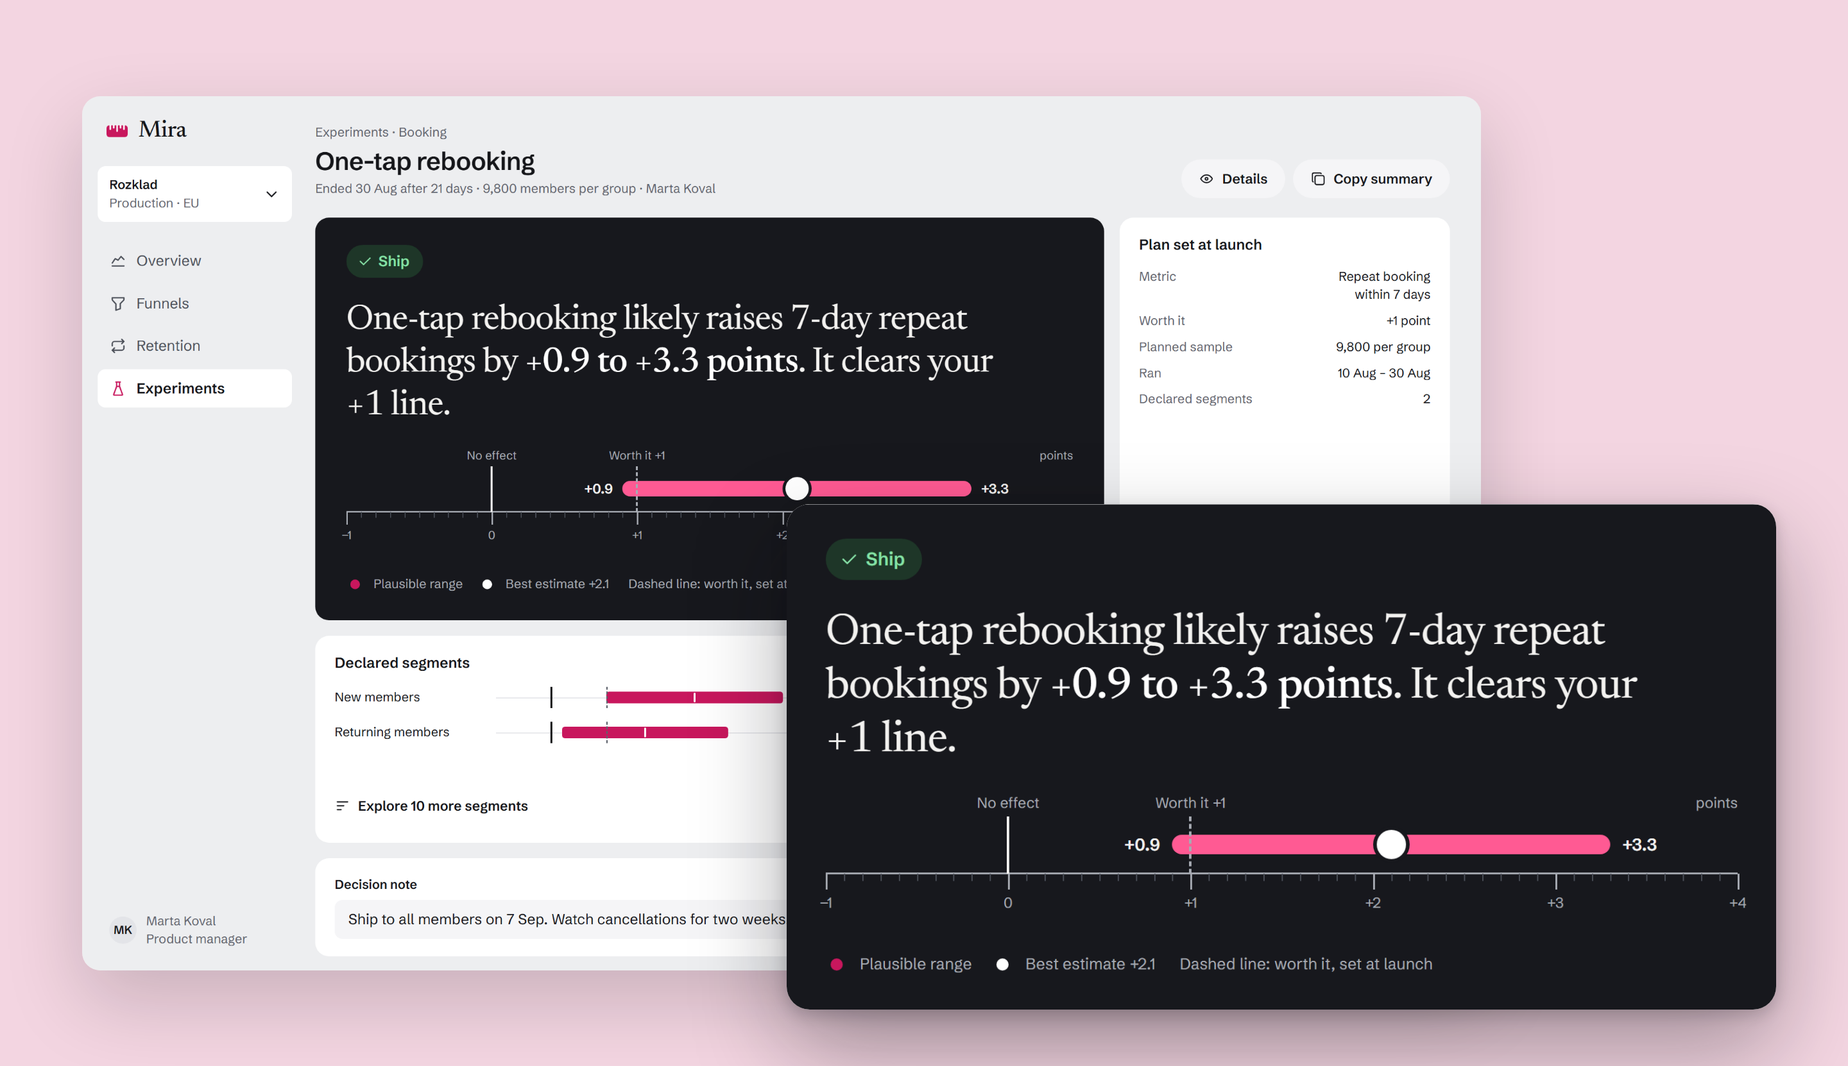
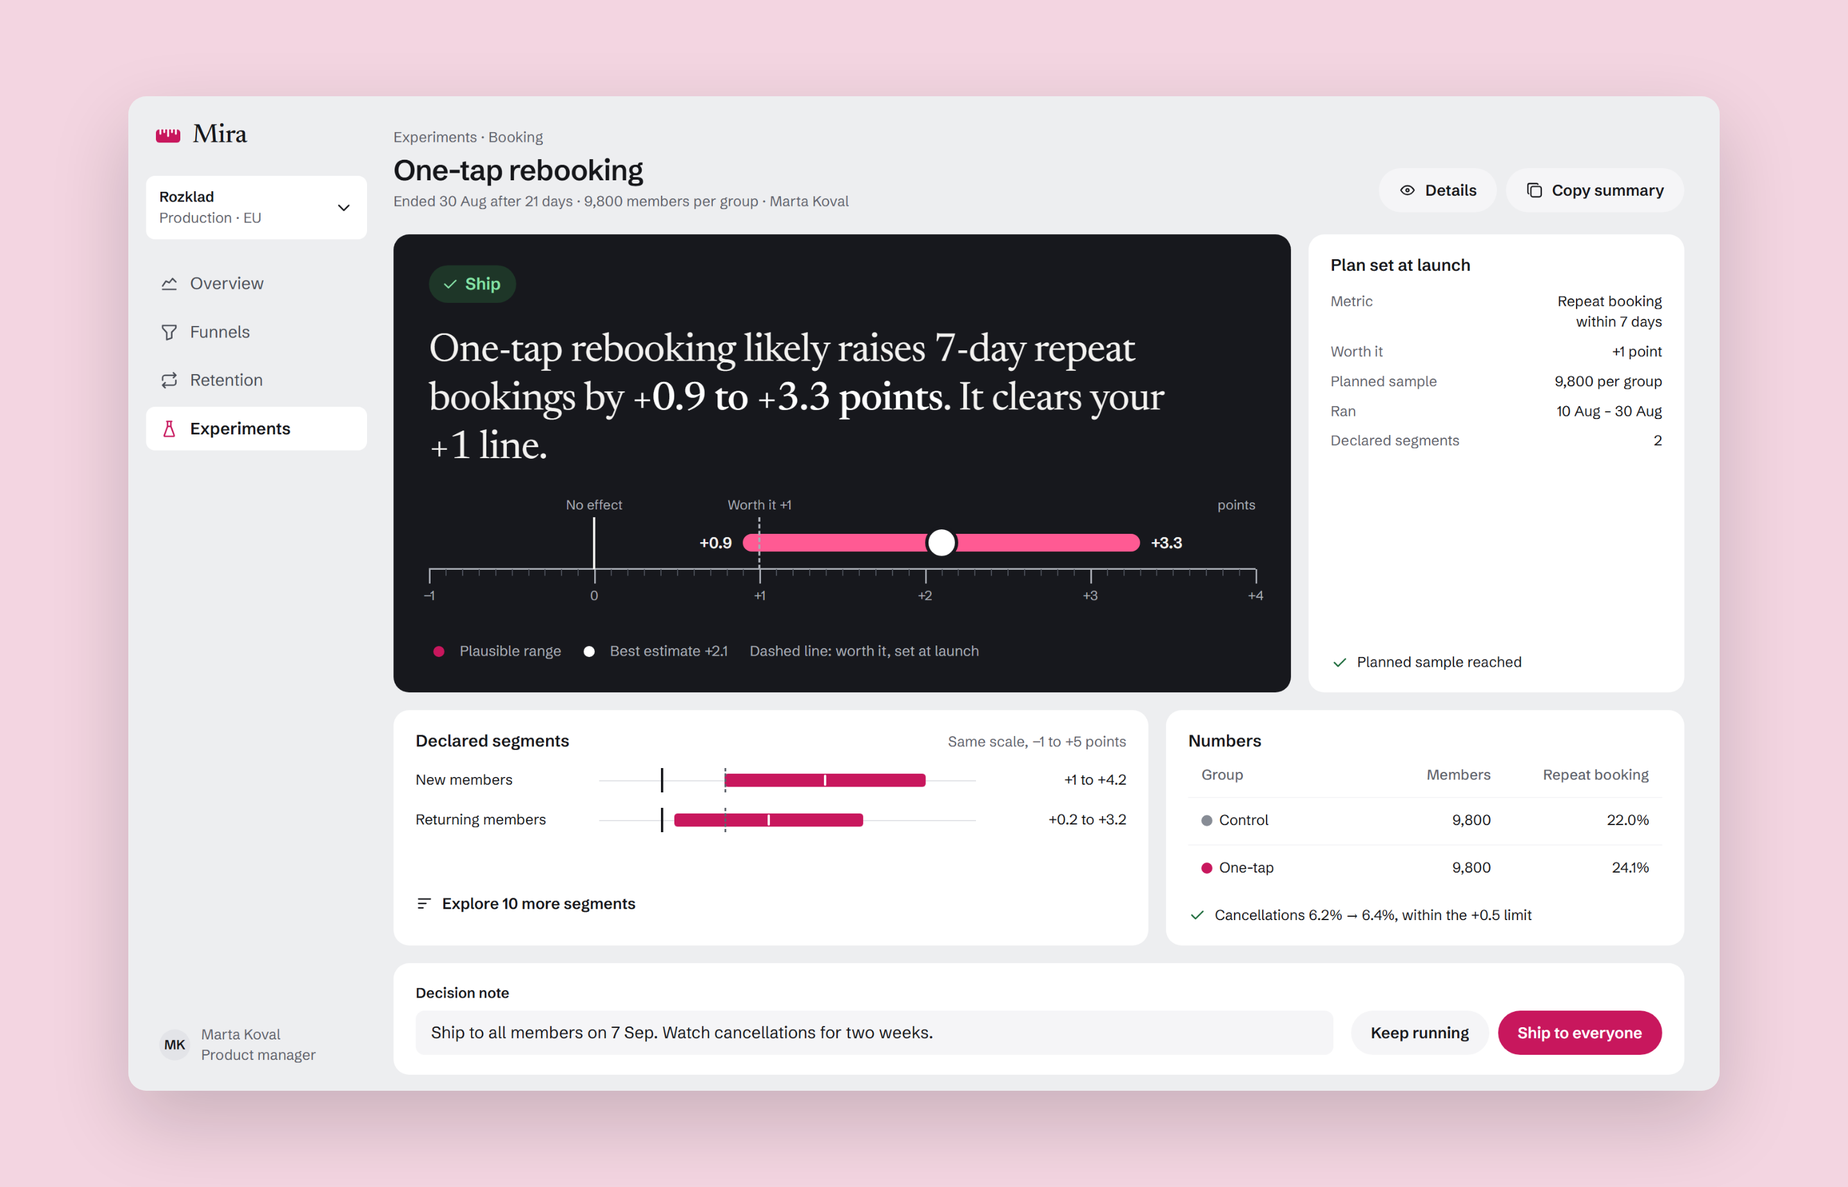
Mira: one claim per case image
Case images now prove one point each instead of repeating a screen with
an enlarged copy of itself. Full screens only where the layout matters
(hero, before, list); otherwise the part the caption is about, alone and
readable. Early peek shown as before and after side by side. Details and
cohorts images dropped: they proved nothing the text needs. 15 images.

diff --git a/mira-experiment-results.html b/mira-experiment-results.html
@@ -42,7 +42,7 @@
   <header class="case-hero wrap">
     <h1>Mira — experiment results that say when to decide</h1>
     <dl class="case-facts"><div><dt>Role</dt><dd>UI/UX &amp; Product Designer</dd></div><div><dt>Platform</dt><dd>Web, desktop</dd></div><div><dt>Domain</dt><dd class="seplist"><span class="seplist__items"><span>SaaS</span><span>Analytics</span></span></dd></div><div><dt>Team</dt><dd>Solo concept</dd></div></dl>
-    <div class="media case-hero__media"><figure class="fig"><img src="img/mira-experiment-results/01-hero.webp" alt="Mira result screen for One-tap rebooking: a Ship verdict, the sentence “likely raises 7-day repeat bookings by +0.9 to +3.3 points” and a ruler with zero, the worth-it line and the range, enlarged" width="2048" height="1182" loading="eager" decoding="async"><figcaption>The verdict, one sentence and the plausible range on a ruler</figcaption></figure></div>
+    <div class="media case-hero__media"><figure class="fig"><img src="img/mira-experiment-results/01-hero.webp" alt="Mira result screen for One-tap rebooking: a Ship verdict, the sentence “likely raises 7-day repeat bookings by +0.9 to +3.3 points”, a ruler with zero, the worth-it line and the range, the plan set at launch and declared segments" width="2048" height="1316" loading="eager" decoding="async"><figcaption>The verdict, one sentence and the plausible range on a ruler</figcaption></figure></div>
     <dl class="case-summary" aria-label="Case at a glance"><div><dt>Problem</dt><dd>Teams using Mira shipped A/B&nbsp;“wins” off a green badge. 41% of shipped winners were stopped before the planned sample, and 9 of 24 rechecked later showed no effect.</dd></div><div><dt>What I did</dt><dd>Ran JTBD interviews, a retro of 86 past decisions and a test of four ways to show the same result. Then I redesigned results, test setup, segments, funnels and retention.</dd></div><div><dt>Result</dt><dd>Correct decisions in the test rose from 59% to 72%, and early stops in the pilot fell from 36% to 19%. Showing p-values openly failed, and analysts didn’t improve.</dd></div></dl>
   </header>
   <div class="prose wrap">
@@ -52,7 +52,7 @@
 <p class="reveal">Every screen shows Mira’s demo workspace, Rozklad, a class-booking app for gyms: 182,000 visits in 30&nbsp;days, 1,690 paid plans. The old results page put the lift in big type next to a green “Significant” badge, with the p-value in small grey text. Results appeared from the first hour of a test.</p>
 <p class="reveal">Page logs showed how it was read. 72% of visits to a result lasted under 40&nbsp;seconds, only 9% scrolled down to the interval, and 58% of views came before the planned sample was in.</p>
 <p class="reveal">This is a solo concept, written the way it would run in a team: a product lead, an analyst, two front-end engineers and me. I ran the research, the design and the test. Six weeks of design, then an eight-week pilot.</p>
-<div class="media reveal"><figure class="fig"><img src="img/mira-experiment-results/02-before.webp" alt="The old results page: +18% in big type with a green Significant badge on day 3 of 14, and the p-value in small grey text" width="2048" height="1182" loading="lazy" decoding="async"><figcaption>Before: lift in big type, a green badge on day 3, the p-value in small print</figcaption></figure></div>
+<div class="media reveal"><figure class="fig"><img src="img/mira-experiment-results/02-before.webp" alt="The old results page: +18% in big type with a green Significant badge on day 3 of 14, the p-value in small grey text, and a segment table with another Significant badge" width="2048" height="1316" loading="lazy" decoding="async"><figcaption>Before: lift in big type, a green badge on day 3, the p-value in small print</figcaption></figure></div>
 <h2 class="reveal">Constraints</h2>
 <ul class="reveal"><li><strong>The statistics engine stays.</strong> Fixed-sample tests, as the teams already plan them. I could change how a result reads, not the maths behind it.</li><li><strong>Analysts still need p-values.</strong> They sign results off, and someone asks them “is this significant?” six times a week.</li><li><strong>The screen can’t invent a threshold.</strong> What counts as worth shipping is the team’s call, so it has to be set before the test starts.</li><li><strong>The page itself can’t be A/B tested.</strong> Whether a decision was right shows up months later, in a holdout.</li></ul>
 <h2 class="reveal">Process</h2>
@@ -76,32 +76,30 @@
 <h2 class="reveal">A sentence first, then the range</h2>
 <p class="reveal">The result opens with a sentence a product manager can repeat at review, with the range in it: “likely raises 7-day repeat bookings by +0.9 to +3.3&nbsp;points.” Under it, the ruler shows zero, the worth-it line the team set at launch and the plausible range. Mira comes from “міра”, Ukrainian for “measure”, so the ruler is the product’s one memorable element: a dark instrument panel, a graduated rule, a raspberry range. Everything around it stays quiet grey.</p>
 <p class="reveal">A flat test gets the same treatment. The paywall copy moved paid conversion by −0.2 to +0.6&nbsp;points, so the sentence says it’s no different from zero.</p>
-<div class="media reveal"><figure class="fig"><img src="img/mira-experiment-results/07-flat.webp" alt="Paywall copy result: No clear difference, the range −0.2 to +0.6 points crossing zero, enlarged" width="2048" height="1182" loading="lazy" decoding="async"><figcaption>No clear difference: the range crosses zero</figcaption></figure></div>
-<p class="reveal">Analysts keep everything they had, one click away: p-value, z, relative interval, power and the sample ratio check.</p>
-<div class="media reveal"><figure class="fig"><img src="img/mira-experiment-results/08-details.webp" alt="The Details drawer over a result: p-value, z, relative interval, power and the sample ratio check" width="2048" height="1182" loading="lazy" decoding="async"><figcaption>The statistics are still there, in Details</figcaption></figure></div>
+<div class="media reveal"><figure class="fig"><img src="img/mira-experiment-results/07-flat.webp" alt="Paywall copy result panel: No clear difference, the sentence “moved paid conversion by −0.2 to +0.6 points” and a range that crosses zero and the +0.3 worth-it line" width="2048" height="1095" loading="lazy" decoding="async"><figcaption>No clear difference: the range crosses zero and the worth-it line</figcaption></figure></div>
+<p class="reveal">Analysts keep everything they had, one click away in Details: p-value, z, relative interval, power and the sample ratio check.</p>
 <h2 class="reveal">Too early is a state, not a missing number</h2>
 <p class="reveal">Until the planned sample is in, there is no lift and no range. The panel says how much of the sample is collected and when the verdict comes. The guardrail metrics are checked meanwhile, because harm can stop a test early. Benefit can’t.</p>
-<div class="media reveal"><figure class="fig"><img src="img/mira-experiment-results/09-too-early.webp" alt="Evening class reminder on day 5 of 14: Too early, no range yet, 38% of the planned sample and a verdict date of 6 Nov, enlarged" width="2048" height="1182" loading="lazy" decoding="async"><figcaption>On day 5 of 14: no verdict, a date for one</figcaption></figure></div>
+<div class="media reveal"><figure class="fig"><img src="img/mira-experiment-results/08-early-before-after.webp" alt="Before and after side by side: the old page shows +18% Significant on day 3 of 14; the new panel says Too early, 38% of the planned sample, verdict on 6 Nov" width="2048" height="811" loading="lazy" decoding="async"><figcaption>Early in a test, the old page named a winner; the new one names a date</figcaption></figure></div>
 <p class="reveal">The worth-it line is set when the test is created. Mira turns it into a planned sample, 14,366&nbsp;members per group, and a verdict date.</p>
-<div class="media reveal"><figure class="fig"><img src="img/mira-experiment-results/10-setup.webp" alt="New experiment form: the worth-it line set to +1.5 points and the plan it needs, 14,366 members per group and a verdict on 6 Nov" width="2048" height="1182" loading="lazy" decoding="async"><figcaption>The line is set before anyone sees a result</figcaption></figure></div>
+<div class="media reveal"><figure class="fig"><img src="img/mira-experiment-results/09-setup.webp" alt="New experiment form: the worth-it line set to +1.5 points, a preview of how the result will read, and the plan it needs, 14,366 members per group and a verdict on 6 Nov" width="2048" height="734" loading="lazy" decoding="async"><figcaption>The line is set before anyone sees a result</figcaption></figure></div>
 <h2 class="reveal">Segments can’t rescue a flat test</h2>
 <p class="reveal">Exploratory segments come with a warning and a correction for multiple comparisons. With 12 segments, a win can show up by chance alone. In the paywall test, “iOS, evening” looked like a win at +0.1 to +2.7&nbsp;points. Corrected, it is −0.5 to +3.3: no different from zero.</p>
-<div class="media reveal"><figure class="fig"><img src="img/mira-experiment-results/11-segments.webp" alt="Exploratory segments of the paywall test, corrected for 12 looks: iOS, evening runs from −0.5 to +3.3 points after adjusting" width="2048" height="1182" loading="lazy" decoding="async"><figcaption>Twelve segments, corrected for chance</figcaption></figure></div>
+<div class="media reveal"><figure class="fig"><img src="img/mira-experiment-results/10-segments.webp" alt="Exploratory segments of the paywall test, corrected for 12 looks: iOS, evening runs from −0.5 to +3.3 points after adjusting, against +0.1 to +2.7 before" width="2048" height="802" loading="lazy" decoding="async"><figcaption>Twelve segments, corrected for chance</figcaption></figure></div>
 <h2 class="reveal">Context on every chart</h2>
 <p class="reveal">The funnel marks when each test ran and when the season started, so a rise isn’t credited to the wrong change. Cohorts mark the rollout the same way.</p>
-<div class="media reveal"><figure class="fig"><img src="img/mira-experiment-results/12-funnel.webp" alt="Visit-to-paid funnel with the weekly trend, test spans and the start of the season marked on the chart" width="2048" height="1182" loading="lazy" decoding="async"><figcaption>Test spans and the season on the funnel</figcaption></figure></div>
-<div class="media reveal"><figure class="fig"><img src="img/mira-experiment-results/13-cohorts.webp" alt="Retention by weekly cohort as a raspberry heatmap, with the rebooking rollout marked" width="2048" height="1316" loading="lazy" decoding="async"><figcaption>Retention cohorts with the rollout marked</figcaption></figure></div>
+<div class="media reveal"><figure class="fig"><img src="img/mira-experiment-results/11-funnel.webp" alt="Weekly trend from first booking to paid plan with the trial length and paywall copy test spans and the start of the season on 31 Aug marked" width="2048" height="916" loading="lazy" decoding="async"><figcaption>Test spans and the season on the funnel</figcaption></figure></div>
 <p class="reveal">The experiments list keeps running and closed tests apart. A running test shows how much sample is in, in grey; only a finished test shows a range.</p>
-<div class="media reveal"><figure class="fig"><img src="img/mira-experiment-results/14-list.webp" alt="Experiments list split into running tests with a grey sample meter and closed tests with ranges on a shared scale" width="2048" height="1182" loading="lazy" decoding="async"><figcaption>Progress and results never share a column</figcaption></figure></div>
+<div class="media reveal"><figure class="fig"><img src="img/mira-experiment-results/12-list.webp" alt="Experiments list split into running tests with a grey sample meter and closed tests with ranges on a shared scale, with a legend below" width="2048" height="1316" loading="lazy" decoding="async"><figcaption>Progress and results never share a column</figcaption></figure></div>
 <h2 class="reveal">Result</h2>
 <p class="reveal"><strong>The hypothesis that failed.</strong> Showing p-values, intervals and power openly changed nothing that mattered. Correct decisions stayed at 59%, and decisions took 74&nbsp;seconds instead of 52. Worse, people shipped more on early data, 44% instead of 38%, and were more sure of it: confidence on those wrong calls was 4.1 out of 5. They found the small p-value of an early peek and read it as a verdict. More truth didn’t mean more understanding: people turned any number into “win” or “lose” on their own.</p>
-<div class="media reveal"><figure class="fig"><img src="img/mira-experiment-results/15-p-values.webp" alt="Bar charts: correct decisions 59% on both the old page and with statistics shown; shipping on early data 38% against 44%; confidence on those wrong ships 3.4 against 4.1" width="2048" height="910" loading="lazy" decoding="async"><figcaption>Same accuracy, more confident early ships</figcaption></figure></div>
+<div class="media reveal"><figure class="fig"><img src="img/mira-experiment-results/13-p-values.webp" alt="Bar charts: correct decisions 59% on both the old page and with statistics shown; shipping on early data 38% against 44%; confidence on those wrong ships 3.4 against 4.1" width="2048" height="910" loading="lazy" decoding="async"><figcaption>Same accuracy, more confident early ships</figcaption></figure></div>
 <p class="reveal">So the product gives the verdict itself, right and on time, and keeps the statistics in Details for those who want them.</p>
 <p class="reveal">The final version, with the verdict, the range and sample readiness, against the old page:</p>
 <ul class="reveal"><li><strong>Correct decisions</strong> rose from 59% to 72%, +13&nbsp;points (+6 to +20 across people). Decisions took 43&nbsp;seconds instead of 52.</li><li><strong>Shipping on early data</strong> fell from 38% to 14%. People now doubt themselves when they’re wrong: confidence 3.9 on right calls, 3.0 on wrong ones.</li><li><strong>In the pilot</strong>, 3 workspaces over 8&nbsp;weeks, tests stopped before the planned sample fell from 36% to 19%, 5 of 26. The cost: the median test now runs 14&nbsp;days instead of 12.</li></ul>
 <p class="reveal"><strong>The surprise in one segment.</strong> Product and growth people gained the most, from 46% to 71%. Analysts didn’t move: 72% to 73%. On tests with no effect they even did worse, 81% to 72%, though with 24&nbsp;people per group that range runs from −26 to +8&nbsp;points, so it’s a signal, not a finding. They opened segments, found one that looked significant and shipped. The exploratory label didn’t stop them. Next step: the correction goes into the segment verdict itself, not a note under it.</p>
-<div class="media reveal"><figure class="fig"><img src="img/mira-experiment-results/16-by-role.webp" alt="Dot plot of correct decisions by role: product and growth 46% to 71%, analysts 72% to 73%, analysts on tests with no effect 81% to 72%" width="2048" height="853" loading="lazy" decoding="async"><figcaption>Product people gained; analysts didn’t</figcaption></figure></div>
-<div class="media reveal"><figure class="fig"><img src="img/mira-experiment-results/17-results.webp" alt="Results table: correct decisions 59% to 72%, time 52 to 43 seconds, early ships 38% to 14%, early stops 36% to 19%, test length 12 to 14 days" width="2048" height="853" loading="lazy" decoding="async"><figcaption>A modest result with a cost</figcaption></figure></div>
+<div class="media reveal"><figure class="fig"><img src="img/mira-experiment-results/14-by-role.webp" alt="Dot plot of correct decisions by role: product and growth 46% to 71%, analysts 72% to 73%, analysts on tests with no effect 81% to 72%" width="2048" height="853" loading="lazy" decoding="async"><figcaption>Product people gained; analysts didn’t</figcaption></figure></div>
+<div class="media reveal"><figure class="fig"><img src="img/mira-experiment-results/15-results.webp" alt="Results table: correct decisions 59% to 72%, time 52 to 43 seconds, early ships 38% to 14%, early stops 36% to 19%, test length 12 to 14 days" width="2048" height="853" loading="lazy" decoding="async"><figcaption>A modest result with a cost</figcaption></figure></div>
 <h2 class="reveal">What I learned</h2>
 <ul class="reveal"><li><strong>Transparency isn’t understanding.</strong> Given more numbers, people still made up a verdict, so the product should give the right one.</li><li><strong>Timing is part of the design.</strong> The same verdict is harmful on day 3 and right on day 14.</li><li><strong>Experts need a different guard.</strong> Analysts didn’t misread the result; they went looking for another one.</li></ul>
   </div>

diff --git a/Voitenko Design — Portfolio/11 Mira — experiment results/case.md b/Voitenko Design — Portfolio/11 Mira — experiment results/case.md
@@ -76,45 +76,41 @@ The result opens with a sentence a product manager can repeat at review, with th
 
 A flat test gets the same treatment. The paywall copy moved paid conversion by −0.2 to +0.6 points, so the sentence says it’s no different from zero.
 
-![No clear difference: the range crosses zero](images/07-flat.png)
+![No clear difference: the range crosses zero and the worth-it line](images/07-flat.png)
 
-Analysts keep everything they had, one click away: p-value, z, relative interval, power and the sample ratio check.
-
-![The statistics are still there, in Details](images/08-details.png)
+Analysts keep everything they had, one click away in Details: p-value, z, relative interval, power and the sample ratio check.
 
 ## Too early is a state, not a missing number
 
 Until the planned sample is in, there is no lift and no range. The panel says how much of the sample is collected and when the verdict comes. The guardrail metrics are checked meanwhile, because harm can stop a test early. Benefit can’t.
 
-![On day 5 of 14: no verdict, a date for one](images/09-too-early.png)
+![Early in a test, the old page named a winner; the new one names a date](images/08-early-before-after.png)
 
 The worth-it line is set when the test is created. Mira turns it into a planned sample, 14,366 members per group, and a verdict date.
 
-![The line is set before anyone sees a result](images/10-setup.png)
+![The line is set before anyone sees a result](images/09-setup.png)
 
 ## Segments can’t rescue a flat test
 
 Exploratory segments come with a warning and a correction for multiple comparisons. With 12 segments, a win can show up by chance alone. In the paywall test, “iOS, evening” looked like a win at +0.1 to +2.7 points. Corrected, it is −0.5 to +3.3: no different from zero.
 
-![Twelve segments, corrected for chance](images/11-segments.png)
+![Twelve segments, corrected for chance](images/10-segments.png)
 
 ## Context on every chart
 
 The funnel marks when each test ran and when the season started, so a rise isn’t credited to the wrong change. Cohorts mark the rollout the same way.
 
-![Test spans and the season on the funnel](images/12-funnel.png)
-
-![Retention cohorts with the rollout marked](images/13-cohorts.png)
+![Test spans and the season on the funnel](images/11-funnel.png)
 
 The experiments list keeps running and closed tests apart. A running test shows how much sample is in, in grey; only a finished test shows a range.
 
-![Progress and results never share a column](images/14-list.png)
+![Progress and results never share a column](images/12-list.png)
 
 ## Result
 
 **The hypothesis that failed.** Showing p-values, intervals and power openly changed nothing that mattered. Correct decisions stayed at 59%, and decisions took 74 seconds instead of 52. Worse, people shipped more on early data, 44% instead of 38%, and were more sure of it: confidence on those wrong calls was 4.1 out of 5. They found the small p-value of an early peek and read it as a verdict. More truth didn’t mean more understanding: people turned any number into “win” or “lose” on their own.
 
-![Same accuracy, more confident early ships](images/15-p-values.png)
+![Same accuracy, more confident early ships](images/13-p-values.png)
 
 So the product gives the verdict itself, right and on time, and keeps the statistics in Details for those who want them.
 
@@ -126,9 +122,9 @@ The final version, with the verdict, the range and sample readiness, against the
 
 **The surprise in one segment.** Product and growth people gained the most, from 46% to 71%. Analysts didn’t move: 72% to 73%. On tests with no effect they even did worse, 81% to 72%, though with 24 people per group that range runs from −26 to +8 points, so it’s a signal, not a finding. They opened segments, found one that looked significant and shipped. The exploratory label didn’t stop them. Next step: the correction goes into the segment verdict itself, not a note under it.
 
-![Product people gained; analysts didn’t](images/16-by-role.png)
+![Product people gained; analysts didn’t](images/14-by-role.png)
 
-![A modest result with a cost](images/17-results.png)
+![A modest result with a cost](images/15-results.png)
 
 ## What I learned
 
